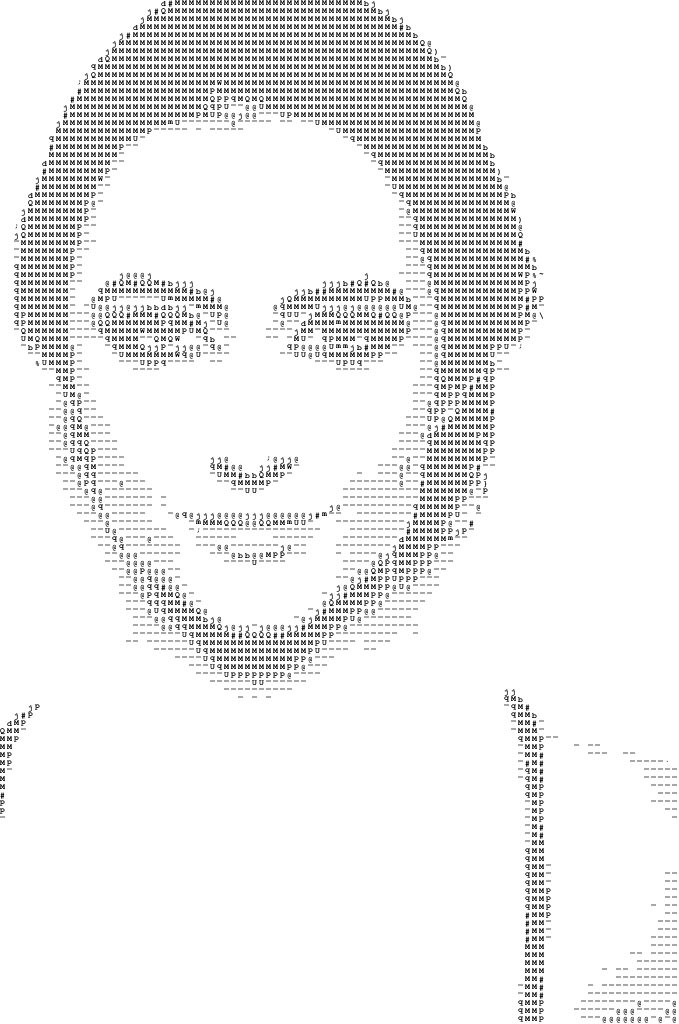
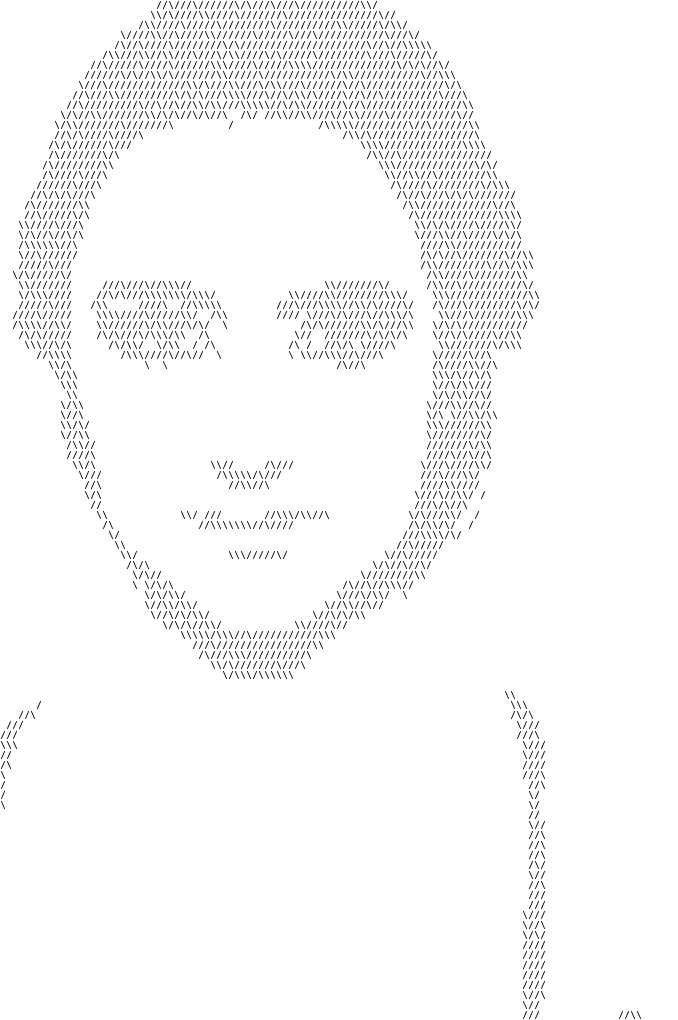
Add examples

diff --git a/src/Examples.java b/src/Examples.java
@@ -19,8 +19,8 @@ public class Examples {
 		// initialize caches
 		AsciiImgCache smallFontCache = AsciiImgCache.create(new Font("Courier",
 				Font.BOLD, 6));
-		AsciiImgCache mediumFontCache = AsciiImgCache.create(new Font(
-				"Courier", Font.BOLD, 8));
+		AsciiImgCache mediumBlackAndWhiteCache = AsciiImgCache.create(new Font(
+				"Courier", Font.BOLD, 10), new char[] {'\\', ' ', '/'});
 		AsciiImgCache largeFontCache = AsciiImgCache.create(new Font("Courier",
 				Font.PLAIN, 16));
 
@@ -36,7 +36,7 @@ public class Examples {
 		AsciiToImageConverter imageConverter = new AsciiToImageConverter(
 				smallFontCache, squareErrorStrategy);
 		AsciiToStringConverter stringConverter = new AsciiToStringConverter(
-				mediumFontCache, ssimStrategy);
+				largeFontCache, ssimStrategy);
 
 		// small font images, square error
 		imageConverter.setCharacterCache(smallFontCache);
@@ -45,7 +45,7 @@ public class Examples {
 				new File("examples/portrait_small_square_error.png"));
 
 		// medium font images, square error
-		imageConverter.setCharacterCache(mediumFontCache);
+		imageConverter.setCharacterCache(mediumBlackAndWhiteCache);
 		imageConverter.setCharacterFitStrategy(squareErrorStrategy);
 		ImageIO.write(imageConverter.convertImage(portraitImage), "png",
 				new File("examples/portrait_medium_square_error.png"));
@@ -63,7 +63,7 @@ public class Examples {
 				new File("examples/portrait_small_ssim.png"));
 
 		// medium font images, ssim error
-		imageConverter.setCharacterCache(mediumFontCache);
+		imageConverter.setCharacterCache(mediumBlackAndWhiteCache);
 		imageConverter.setCharacterFitStrategy(ssimStrategy);
 		ImageIO.write(imageConverter.convertImage(portraitImage), "png",
 				new File("examples/portrait_medium_ssim.png"));
@@ -75,8 +75,7 @@ public class Examples {
 				new File("examples/portrait_large_ssim.png"));
 
 		// string converter, output to console
-		System.out.println(stringConverter.convertImage(portraitImage)
-				.toString());
+		System.out.println(stringConverter.convertImage(portraitImage));
 
 	}
 }

diff --git a/README.md b/README.md
@@ -1,10 +1,76 @@
 asciimg
 ========
 
-Asciimg is a very simple ascii art generator written in Java with configurable font and contrast. 
-
+Asciimg is an extensible Ascii art generator written in Java.
 For more info refer to this blog post:
-<a href="http://korhner.github.io/java/image-processing/ascii-art-generator/">
-http://korhner.github.io/java/image-processing/ascii-art-generator/</a>
+<a href="http://korhner.github.io/java/image-processing/ascii-art-generator-part-2/">
+http://korhner.github.io/java/image-processing/ascii-art-generator-part-2/</a>
+
+## Example usage
+
+<pre>
+// initialize cache
+AsciiImgCache cache = AsciiImgCache.create(new Font("Courier",Font.BOLD, 6));
+
+// load image
+BufferedImage portraitImage = ImageIO.read(new File("image.png"));
+
+// initialize converters
+AsciiToImageConverter imageConverter = 
+    new AsciiToImageConverter(cache, new ColorSquareErrorFitStrategy());
+AsciiToStringConverter stringConverter = 
+    new AsciiToStringConverter(cache, new StructuralSimilarityFitStrategy());
+
+// image output
+ImageIO.write(imageConverter.convertImage(portraitImage), "png", 
+    new File("ascii_art.png"));
+// string converter, output to console
+System.out.println(stringConverter.convertImage(portraitImage));
+</pre>
+
+## Example output
+
+Here are some sample images generated with various parameters:
+
+<a href="http://korhner.github.io//assets/img/asciimg/orig.png">Original picture</a>
+
+<a href="http://korhner.github.io/assets/img/asciimg/large_square_error.png">16 pts font, MSE</a>  
+<a href="http://korhner.github.io/assets/img/asciimg/large_ssim.png">16 pts font, SSIM</a>  
+<a href="http://korhner.github.io/assets/img/asciimg/medium_square_error.png">10 pts font with 3 characters, MSE</a>  
+<a href="http://korhner.github.io/assets/img/asciimg/medium_ssim.png">10 pts font with 3 characters, SSIM</a>  
+<a href="http://korhner.github.io/assets/img/asciimg/small_square_error.png">6 pts font, MSE</a>  
+<a href="http://korhner.github.io/assets/img/asciimg/small_ssim.png">6 pts font, SSIM</a>  
+
+## Architecture:
+
+<img src="http://korhner.github.io/assets/img/asciimg/asciimg_cls_diagram.png" />
+
+## AsciiImgCache
+
+Before any ascii art rendering takes place, it is necessary to create an instance of this class. 
+It takes a font and a list of characters to use as parameters and it creates a map of images for every character.
+There is also a default list of characters if you don't want to bother comming up with your own.  
+
+### BestCharacterFitStrategy
+
+This is the abstraction of the algorithm used for determining how similar a part of the source image with each character is. 
+The implementation should compare two images and return a float error. Each character will be compared and the one that returns the lowest error will be selected. 
+Currently there two implementations available: ColorSquareErrorFitStrategy and StructuralSimilarityFitStrategy.
+
+#### ColorSquareErrorFitStrategy
+
+Very simple to understand, it compares every pixel and calculates Mean squared error.
+
+#### StructuralSimilarityFitStrategy
+
+The structural similarity (SSIM) index algorithm claims to reproduce human perception and its aim is to improve on traditional methods like MSE.
+Uou can read more on <a href="http://en.wikipedia.org/wiki/Structural_similarity">Wikipedia</a> if you want to know more.
+I experimented a bit with it and implemented a version that seemed to produce the best results for this case.
+
+### AsciiConverter<T>
+
+This is the hearth of the process and it contains all the logic for tiling source image and utilizing concrete implementations for calculating character best fit.
+However, it doesn't know how to create the concrete ascii art - it needs to be subclassed. 
+There are two implementations currently: AsciiToImageConverter and AsciiToStringConverter - which as you probably guessed, produce image and string output.
 
 
